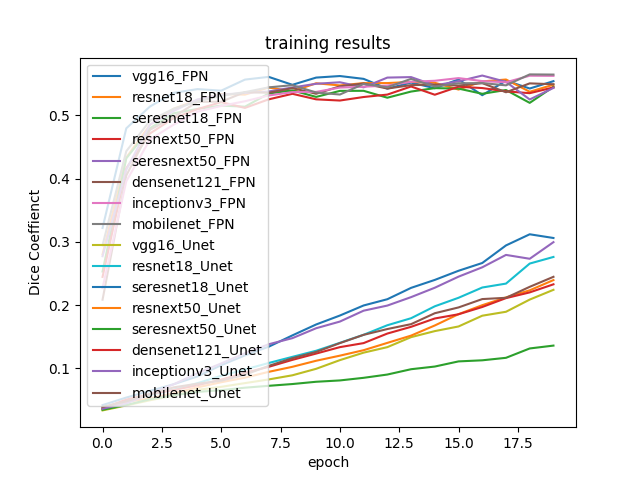
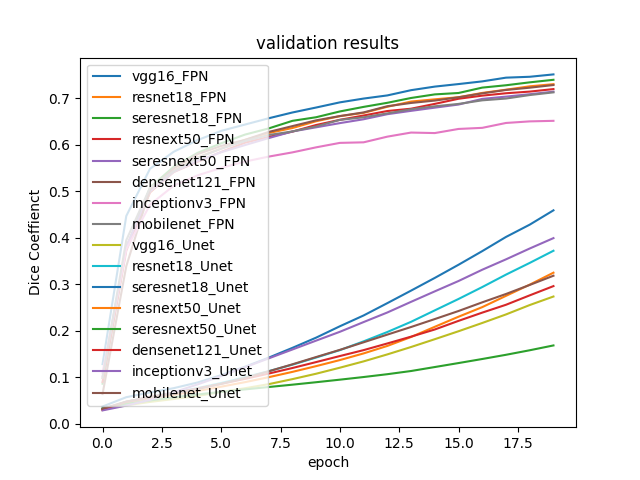
updated results

diff --git a/benchmark.py b/benchmark.py
@@ -11,14 +11,20 @@ X, Y = load_data()
 X, Y = preprocess(X, Y)
 
 results = {}
-models = ['FPN', 'Unet']
-encoders = ['vgg16', 'resnet18', 'seresnet18',
-            'resnext50', 'seresnext50',
-            'densenet121', 'inceptionv3',
-            'mobilenet']
+models = ['Unet']
+encoders = ['vgg16', 'vgg19',
+            'resnet18', 'resnet34', 'resnet50', 'resnet101', 'resnet152',
+            'seresnet18', 'seresnet34', 'seresnet50', 'seresnet101', 'seresnet152',
+            'resnext50', 'resnext101',
+            'seresnext50', 'seresnext101',
+            'senet154', 'densenet121', 'densenet169', 'densenet201',
+            'inceptionv3', 'inceptionresnetv2',
+            'mobilenet', 'mobilenetv2',
+            'efficientnetb0', 'efficientnetb1', 'efficientnetb2', 'efficientnetb3', 'efficientnetb4', 'efficientnetb5', 'efficientnetb6', 'efficientnetb7']
 for model_name in models:
     for backbone in encoders:
-        name = backbone + '_' + model_name
+        # name = backbone + '_' + model_name
+        name = backbone
         print(name)
         model = get_backboned_model(model_name, backbone)
         history = train(model, X, Y)

diff --git a/plotting.py b/plotting.py
@@ -18,7 +18,7 @@ for model, history in results.items():
     # plt.plot(history['dice_coef'])
     plt.plot(history['val_dice_coef'])
     legends += [model]
-plt.title('training results')
+plt.title('validation results')
 plt.ylabel('Dice Coeffienct')
 plt.xlabel('epoch')
 plt.legend(legends, loc='upper left')
@@ -30,7 +30,7 @@ legends = []
 for model, history in results.items():
     plt.plot(history['dice_coef'])
     legends += [model]
-plt.title('validation results')
+plt.title('training results')
 plt.ylabel('Dice Coeffienct')
 plt.xlabel('epoch')
 plt.legend(legends, loc='upper left')

diff --git a/models.py b/models.py
@@ -22,7 +22,7 @@ def get_backboned_model(model, backbone, freeze=True):
         base_model = sm.Unet(
             backbone_name=backbone, encoder_weights='imagenet', classes=1, activation='sigmoid', freeze_encoder=freeze)
 
-    inp = Input(shape=(None, None, 1))
+    inp = Input(shape=(96, 96, 1))
     l1 = Conv2D(3, (1, 1))(inp)  # map N channels data to 3 channels
     out = base_model(l1)
 

diff --git a/training.py b/training.py
@@ -53,7 +53,7 @@ def train(model, imgs_train, imgs_mask_train):
     print('-' * 30)
     print('Compiling model...')
     print('-' * 30)
-    model.compile(optimizer=Adam(lr=1e-5), loss=dice_coef_loss, metrics=[dice_coef])
+    model.compile(optimizer=Adam(lr=5e-5), loss=dice_coef_loss, metrics=[dice_coef])
 
     print('-' * 30)
     print('Fitting model...')
